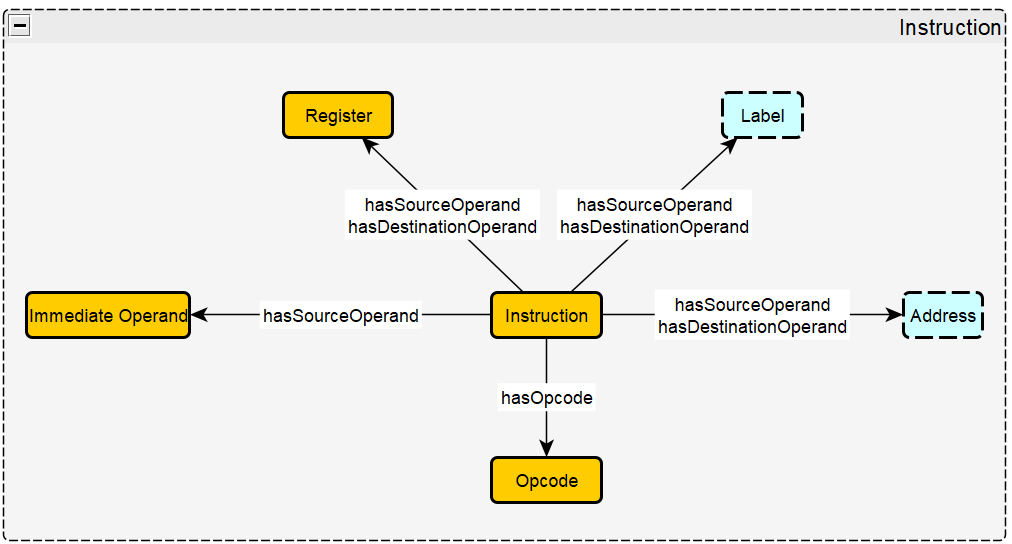
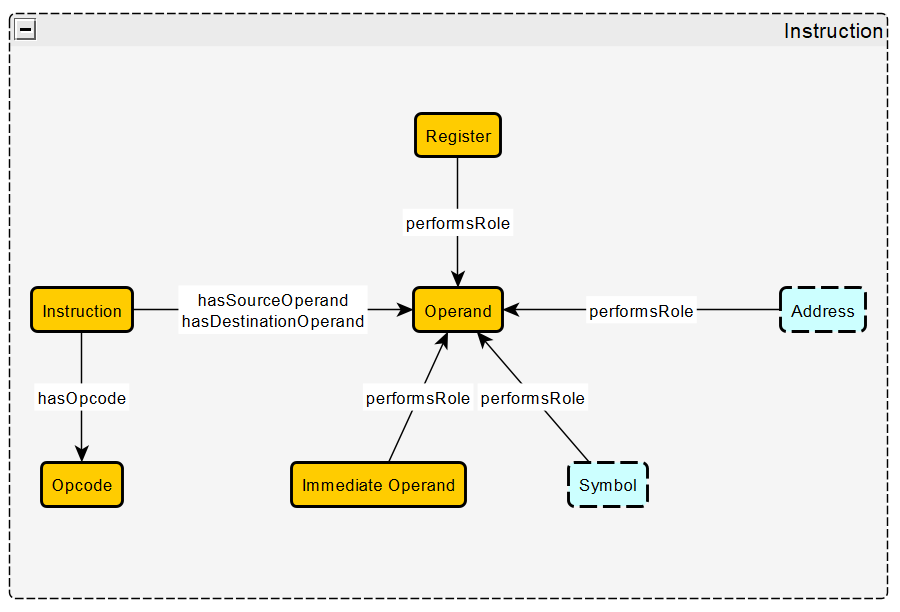
modified axioms for instruction module based on feedback

diff --git a/documentation/key-notions.md b/documentation/key-notions.md
@@ -209,23 +209,18 @@ Assembly instructions that come from Ghidra's disassembly from an executable fil
 ### Axioms
 * `Instruction hasOpcode exactly 1 opcode` <br />
 "Every instruction has exactly 1 opcode"
-* `Instruction hasSourceOperand min 0 Register` <br />
-"Every instruction has 0 or more registers as source operads"
-* `Instruction hasDestinationOperand min 0 max 1 Register` <br />
-"Every instruction has at most 1 register as a destination operand"
-* `Instruction hasSourceOperand min 0 Label` <br />
-"Every instruction has 0 or more labels as source operads"
-* `Instruction hasDestinationOperand min 0 max 1 Label` <br />
-"Every instruction has at most 1 label as a destination operand"
-* `Instruction hasSourceOperand min 0 Address` <br />
-"Every instruction has 0 or more addresses as source operads"
-* `Instruction hasDestinationOperand min 0 max 1 Address` <br />
-"Every instruction has at most 1 address as a destination operand"
-* `Instruction hasSourceOperand min 0 ImmediateOperands` <br />
-"Every instruction has 0 or more immedate operands as source operads" <br />
-<br />
-* Basically, operands can be registers, memory addresses (including labels), or immediate operands (direct values). Overall, an instruction can have 0 or more source operands total, and 0-1 destination operands total.
-
+* `Instruction hasSourceOperand min 0 Operand` <br />
+"Every instruction has 0 or more source operands"
+* `Instruction hasDestinationOperand min 0 max 1 Operand` <br />
+"Every instruction has exactly 0 or 1 destination oeprands"
+* `Address performsRole Operand` <br />
+"An address can perform the role of an operand"
+* `Register performsRole Operand` <br />
+"A register can perform the role of an operand"
+* `ImmediateOperand performsRole Operand` <br />
+"An immediateOperand can perform the role of an operand"
+* `Symbol performsRole Operand` <br />
+"A symbol can perform the role of an operand"
 
 
 ## Overall Schema Diagram
